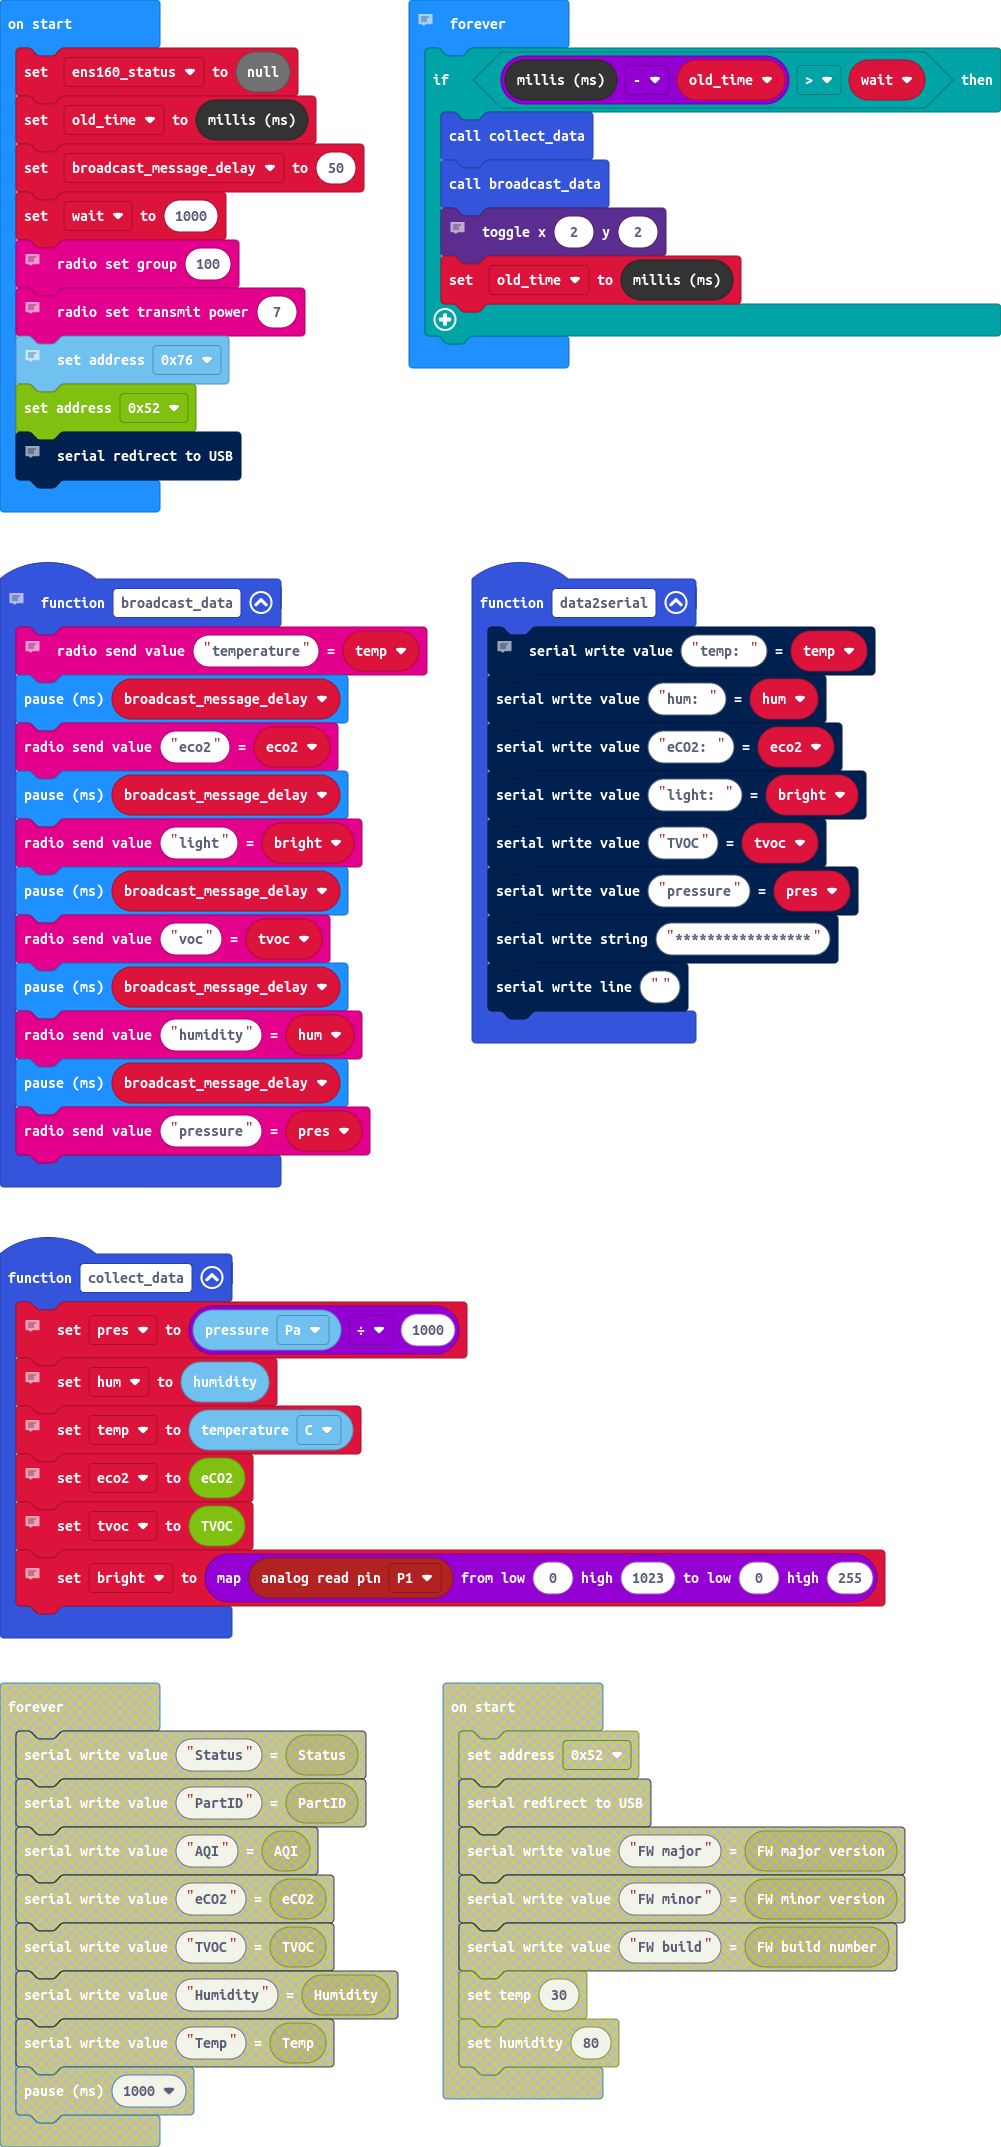
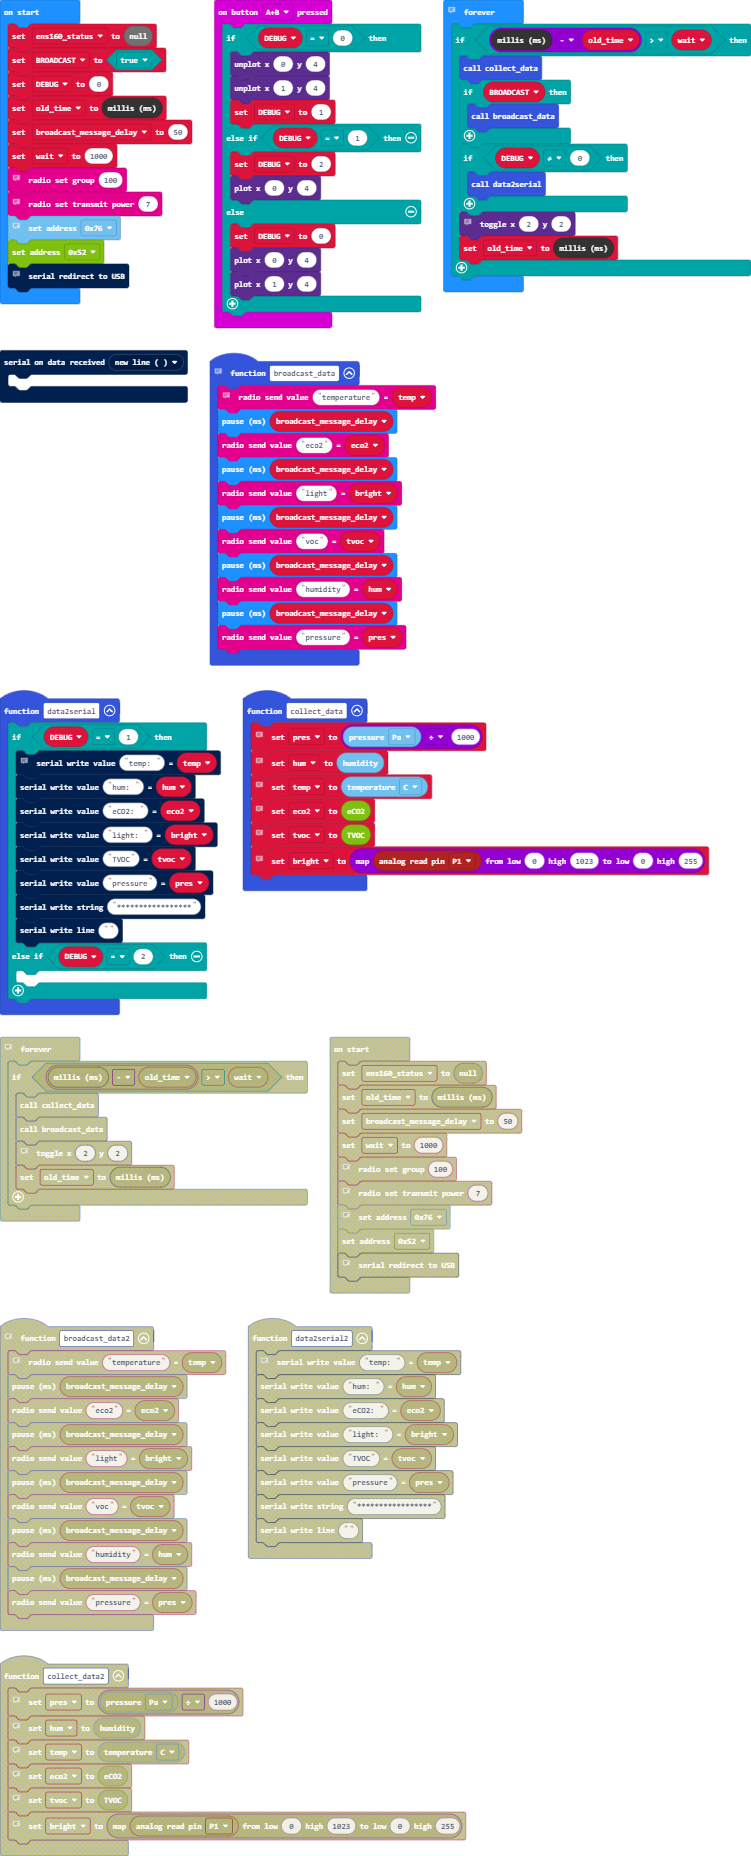
Added 2 debug modes. Both output data over serial port.

diff --git a/main.ts b/main.ts
@@ -1,3 +1,17 @@
+input.onButtonPressed(Button.AB, function () {
+    if (DEBUG == 0) {
+        led.unplot(0, 4)
+        led.unplot(1, 4)
+        DEBUG = 1
+    } else if (DEBUG == 1) {
+        DEBUG = 2
+        led.plot(0, 4)
+    } else {
+        DEBUG = 0
+        led.plot(0, 4)
+        led.plot(1, 4)
+    }
+})
 function collect_data () {
     // value given in kPa
     pres = BME280.pressure(BME280_P.Pa) / 1000
@@ -12,6 +26,9 @@ function collect_data () {
     // value given between 0 and 255
     bright = Math.map(pins.analogReadPin(AnalogPin.P1), 0, 1023, 0, 255)
 }
+serial.onDataReceived(serial.delimiters(Delimiters.NewLine), function () {
+	
+})
 // Broadcast environmental data one by one
 function broadcast_data () {
     // adatküldés rádióra
@@ -28,15 +45,19 @@ function broadcast_data () {
     radio.sendValue("pressure", pres)
 }
 function data2serial () {
-    // adatküldés soros portra
-    serial.writeValue("temp: ", temp)
-    serial.writeValue("hum: ", hum)
-    serial.writeValue("eCO2: ", eco2)
-    serial.writeValue("light: ", bright)
-    serial.writeValue("TVOC", tvoc)
-    serial.writeValue("pressure", pres)
-    serial.writeString("*****************")
-    serial.writeLine("")
+    if (DEBUG == 1) {
+        // adatküldés soros portra
+        serial.writeValue("temp: ", temp)
+        serial.writeValue("hum: ", hum)
+        serial.writeValue("eCO2: ", eco2)
+        serial.writeValue("light: ", bright)
+        serial.writeValue("TVOC", tvoc)
+        serial.writeValue("pressure", pres)
+        serial.writeString("*****************")
+        serial.writeLine("")
+    } else if (DEBUG == 2) {
+    	
+    }
 }
 let bright = 0
 let tvoc = 0
@@ -45,7 +66,10 @@ let temp = 0
 let hum = 0
 let pres = 0
 let broadcast_message_delay = 0
+let DEBUG = 0
 let ens160_status = null
+let BROADCAST = true
+DEBUG = 0
 let old_time = control.millis()
 broadcast_message_delay = 50
 let wait = 1000
@@ -62,7 +86,12 @@ serial.redirectToUSB()
 basic.forever(function () {
     if (control.millis() - old_time > wait) {
         collect_data()
-        broadcast_data()
+        if (BROADCAST) {
+            broadcast_data()
+        }
+        if (DEBUG != 0) {
+            data2serial()
+        }
         // data2serial() // Enable to read data over serial port
         led.toggle(2, 2)
         old_time = control.millis()
